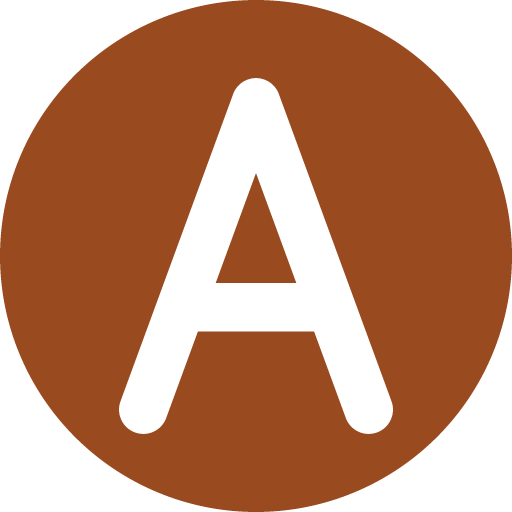
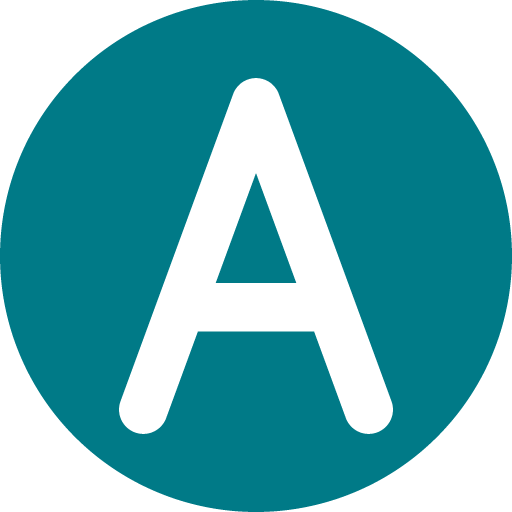
style(tokens): new accent colour
Teal accent (#007a87) through brand-300/600/700 tokens in light and dark;
placeholder icons, email templates and the product name (Bloom) follow.

diff --git a/src/styles/tokens.css b/src/styles/tokens.css
@@ -20,6 +20,9 @@
   --color-roast-300: #e08a55;
   --color-roast-600: #9a4a1f;
   --color-roast-700: #7c3a17;
+  --color-brand-300: #4fc3cf;
+  --color-brand-600: #007a87;
+  --color-brand-700: #005f6a;
   --color-green-300: #6cc08a;
   --color-green-600: #2f7d4a;
   --color-amber-300: #e7b45a;
@@ -132,9 +135,9 @@
   --color-text-on-accent: var(--color-neutral-0);
   --color-border-subtle: var(--color-neutral-100);
   --color-border-strong: var(--color-neutral-600);
-  --color-accent-default: var(--color-roast-600);
-  --color-accent-pressed: var(--color-roast-700);
-  --color-focus-ring: var(--color-roast-600);
+  --color-accent-default: var(--color-brand-600);
+  --color-accent-pressed: var(--color-brand-700);
+  --color-focus-ring: var(--color-brand-600);
   --color-status-success: var(--color-green-600);
   --color-status-warning: var(--color-amber-600);
   --color-status-danger: var(--color-red-600);
@@ -148,8 +151,8 @@
   --color-bg-raised: var(--color-neutral-0);
   --color-bg-overlay: rgba(31, 26, 23, 0.5);
   --color-text-muted: var(--color-neutral-600);
-  --color-accent-hover: var(--color-roast-700);
-  --color-selection-bg: var(--color-roast-600);
+  --color-accent-hover: var(--color-brand-700);
+  --color-selection-bg: var(--color-brand-600);
   --color-selection-fg: var(--color-neutral-0);
   --color-slider-track: var(--color-neutral-500);
   --color-bg-field: var(--color-neutral-50);
@@ -178,9 +181,9 @@
   --color-text-on-accent: var(--color-neutral-950);
   --color-border-subtle: var(--color-neutral-800);
   --color-border-strong: var(--color-neutral-300);
-  --color-accent-default: var(--color-roast-300);
-  --color-accent-pressed: var(--color-roast-600);
-  --color-focus-ring: var(--color-roast-300);
+  --color-accent-default: var(--color-brand-300);
+  --color-accent-pressed: var(--color-brand-600);
+  --color-focus-ring: var(--color-brand-300);
   --color-status-success: var(--color-green-300);
   --color-status-warning: var(--color-amber-300);
   --color-status-danger: var(--color-red-300);
@@ -194,8 +197,8 @@
   --color-bg-raised: var(--color-neutral-800);
   --color-bg-overlay: rgba(0, 0, 0, 0.65);
   --color-text-muted: var(--color-neutral-300);
-  --color-accent-hover: var(--color-roast-300);
-  --color-selection-bg: var(--color-roast-300);
+  --color-accent-hover: var(--color-brand-300);
+  --color-selection-bg: var(--color-brand-300);
   --color-selection-fg: var(--color-neutral-950);
   --color-slider-track: var(--color-neutral-500);
   --color-bg-field: var(--color-neutral-950);
@@ -225,9 +228,9 @@
     --color-text-on-accent: var(--color-neutral-950);
     --color-border-subtle: var(--color-neutral-800);
     --color-border-strong: var(--color-neutral-300);
-    --color-accent-default: var(--color-roast-300);
-    --color-accent-pressed: var(--color-roast-600);
-    --color-focus-ring: var(--color-roast-300);
+    --color-accent-default: var(--color-brand-300);
+    --color-accent-pressed: var(--color-brand-600);
+    --color-focus-ring: var(--color-brand-300);
     --color-status-success: var(--color-green-300);
     --color-status-warning: var(--color-amber-300);
     --color-status-danger: var(--color-red-300);
@@ -241,8 +244,8 @@
     --color-bg-raised: var(--color-neutral-800);
     --color-bg-overlay: rgba(0, 0, 0, 0.65);
     --color-text-muted: var(--color-neutral-300);
-    --color-accent-hover: var(--color-roast-300);
-    --color-selection-bg: var(--color-roast-300);
+    --color-accent-hover: var(--color-brand-300);
+    --color-selection-bg: var(--color-brand-300);
     --color-selection-fg: var(--color-neutral-950);
     --color-slider-track: var(--color-neutral-500);
     --color-bg-field: var(--color-neutral-950);

diff --git a/supabase/templates/reset-password.html b/supabase/templates/reset-password.html
@@ -1,4 +1,4 @@
-<!-- Subject: Reset your [App] password -->
+<!-- Subject: Reset your Bloom password -->
 <!DOCTYPE html>
 <html lang="en">
   <head>
@@ -6,7 +6,7 @@
     <meta name="viewport" content="width=device-width, initial-scale=1" />
     <meta name="color-scheme" content="light" />
     <meta name="supported-color-schemes" content="light" />
-    <title>Reset your [App] password</title>
+    <title>Reset your Bloom password</title>
   </head>
   <body style="margin:0;padding:0;background-color:#F6F2EC;" bgcolor="#F6F2EC">
     <table role="presentation" width="100%" cellpadding="0" cellspacing="0" border="0" bgcolor="#F6F2EC" style="background-color:#F6F2EC;">
@@ -15,18 +15,18 @@
           <table role="presentation" width="100%" cellpadding="0" cellspacing="0" border="0" style="max-width:560px;">
             <tr>
               <td style="padding:0 8px 16px 8px;font-family:Helvetica,Arial,sans-serif;font-size:20px;font-weight:700;color:#2B2118;">
-                [App]
+                Bloom
               </td>
             </tr>
             <tr>
               <td bgcolor="#FFFFFF" style="background-color:#FFFFFF;border:1px solid #D9CFC2;border-radius:12px;padding:28px 24px;font-family:Helvetica,Arial,sans-serif;color:#2B2118;">
                 <h1 style="margin:0 0 12px 0;font-size:22px;line-height:28px;font-weight:700;color:#2B2118;">Choose a new password</h1>
                 <p style="margin:0 0 20px 0;font-size:16px;line-height:24px;color:#2B2118;">
-                  Someone asked to reset the password for your [App] account. Press the button to choose a new one. The link works once and expires soon.
+                  Someone asked to reset the password for your Bloom account. Press the button to choose a new one. The link works once and expires soon.
                 </p>
                 <table role="presentation" cellpadding="0" cellspacing="0" border="0" style="margin:0 0 24px 0;">
                   <tr>
-                    <td align="center" bgcolor="#9A4A1F" style="background-color:#9A4A1F;border-radius:8px;">
+                    <td align="center" bgcolor="#007A87" style="background-color:#007A87;border-radius:8px;">
                       <a href="{{ .RedirectTo }}?token_hash={{ .TokenHash }}&amp;type=recovery" style="display:inline-block;padding:14px 28px;font-family:Helvetica,Arial,sans-serif;font-size:16px;font-weight:700;line-height:20px;color:#FFFFFF;text-decoration:none;border-radius:8px;">Choose a new password</a>
                     </td>
                   </tr>
@@ -35,7 +35,7 @@
                   Button not working? Copy this link into your browser:
                 </p>
                 <p style="margin:0 0 24px 0;font-size:14px;line-height:20px;word-break:break-all;">
-                  <a href="{{ .RedirectTo }}?token_hash={{ .TokenHash }}&amp;type=recovery" style="color:#9A4A1F;text-decoration:underline;">{{ .RedirectTo }}?token_hash={{ .TokenHash }}&amp;type=recovery</a>
+                  <a href="{{ .RedirectTo }}?token_hash={{ .TokenHash }}&amp;type=recovery" style="color:#007A87;text-decoration:underline;">{{ .RedirectTo }}?token_hash={{ .TokenHash }}&amp;type=recovery</a>
                 </p>
                 <p style="margin:0;font-size:14px;line-height:20px;color:#5A4B3D;">
                   Didn&rsquo;t ask for this? You can ignore this email. Your password stays the same.

diff --git a/supabase/templates/confirm-signup.html b/supabase/templates/confirm-signup.html
@@ -1,4 +1,4 @@
-<!-- Subject: Confirm your email for [App] -->
+<!-- Subject: Confirm your email for Bloom -->
 <!DOCTYPE html>
 <html lang="en">
   <head>
@@ -6,7 +6,7 @@
     <meta name="viewport" content="width=device-width, initial-scale=1" />
     <meta name="color-scheme" content="light" />
     <meta name="supported-color-schemes" content="light" />
-    <title>Confirm your email for [App]</title>
+    <title>Confirm your email for Bloom</title>
   </head>
   <body style="margin:0;padding:0;background-color:#F6F2EC;" bgcolor="#F6F2EC">
     <table role="presentation" width="100%" cellpadding="0" cellspacing="0" border="0" bgcolor="#F6F2EC" style="background-color:#F6F2EC;">
@@ -15,18 +15,18 @@
           <table role="presentation" width="100%" cellpadding="0" cellspacing="0" border="0" style="max-width:560px;">
             <tr>
               <td style="padding:0 8px 16px 8px;font-family:Helvetica,Arial,sans-serif;font-size:20px;font-weight:700;color:#2B2118;">
-                [App]
+                Bloom
               </td>
             </tr>
             <tr>
               <td bgcolor="#FFFFFF" style="background-color:#FFFFFF;border:1px solid #D9CFC2;border-radius:12px;padding:28px 24px;font-family:Helvetica,Arial,sans-serif;color:#2B2118;">
                 <h1 style="margin:0 0 12px 0;font-size:22px;line-height:28px;font-weight:700;color:#2B2118;">Confirm your email</h1>
                 <p style="margin:0 0 20px 0;font-size:16px;line-height:24px;color:#2B2118;">
-                  Thanks for signing up to [App]. Press the button to finish creating your account.
+                  Thanks for signing up to Bloom. Press the button to finish creating your account.
                 </p>
                 <table role="presentation" cellpadding="0" cellspacing="0" border="0" style="margin:0 0 24px 0;">
                   <tr>
-                    <td align="center" bgcolor="#9A4A1F" style="background-color:#9A4A1F;border-radius:8px;">
+                    <td align="center" bgcolor="#007A87" style="background-color:#007A87;border-radius:8px;">
                       <a href="{{ .RedirectTo }}?token_hash={{ .TokenHash }}&amp;type=email" style="display:inline-block;padding:14px 28px;font-family:Helvetica,Arial,sans-serif;font-size:16px;font-weight:700;line-height:20px;color:#FFFFFF;text-decoration:none;border-radius:8px;">Confirm email</a>
                     </td>
                   </tr>
@@ -35,7 +35,7 @@
                   Button not working? Copy this link into your browser:
                 </p>
                 <p style="margin:0 0 24px 0;font-size:14px;line-height:20px;word-break:break-all;">
-                  <a href="{{ .RedirectTo }}?token_hash={{ .TokenHash }}&amp;type=email" style="color:#9A4A1F;text-decoration:underline;">{{ .RedirectTo }}?token_hash={{ .TokenHash }}&amp;type=email</a>
+                  <a href="{{ .RedirectTo }}?token_hash={{ .TokenHash }}&amp;type=email" style="color:#007A87;text-decoration:underline;">{{ .RedirectTo }}?token_hash={{ .TokenHash }}&amp;type=email</a>
                 </p>
                 <p style="margin:0;font-size:14px;line-height:20px;color:#5A4B3D;">
                   Didn&rsquo;t sign up? You can ignore this email and nothing will happen.

diff --git a/src/config/site.ts b/src/config/site.ts
@@ -1,14 +1,14 @@
 /** The product name lives here only. Renaming later = this file + public/brand/ icons. */
 export const siteConfig = {
-  name: '[App]',
-  shortName: '[App]',
+  name: 'Bloom',
+  shortName: 'Bloom',
   /** Text wordmark shown in the shell until a logo exists. */
-  wordmark: '[App]',
+  wordmark: 'Bloom',
   description:
     'Recipes that evolve, a guided brew timer and brew logs for serious home coffee brewers.',
   /** Placeholder values; must match the Light/Dark canvas tokens in src/styles/tokens.css. */
   themeColor: { light: '#F6F2EC', dark: '#141110' },
   /** The public GitHub repository. Release links on /changelog point here. */
   repoUrl: 'https://github.com/aaron1999x/brew-v2',
-  accentColor: '#9A4A1F',
+  accentColor: '#007a87',
 } as const;

diff --git a/supabase/templates/README.md b/supabase/templates/README.md
@@ -6,10 +6,10 @@ production at release time).
 
 | File | Dashboard template | Subject (first line of the file, in a comment) |
 |---|---|---|
-| `confirm-signup.html` | **Confirm signup** | Confirm your email for [App] |
-| `reset-password.html` | **Reset password** | Reset your [App] password |
+| `confirm-signup.html` | **Confirm signup** | Confirm your email for Bloom |
+| `reset-password.html` | **Reset password** | Reset your Bloom password |
 
-`[App]` is the placeholder product name (`src/config/site.ts`). Replace it in both files, in the
+`Bloom` is the placeholder product name (`src/config/site.ts`). Replace it in both files, in the
 subjects and in the dashboard once the product has a name.
 
 ## How the links work
